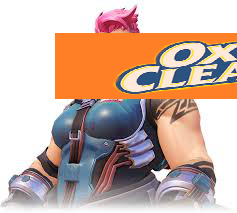
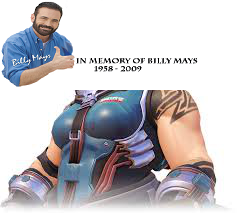
Finished Product

diff --git a/Master File Folder/Master.py b/Master File Folder/Master.py
@@ -1,1 +1,41 @@
 #Master File
+from __future__ import print_function
+import PIL
+from PIL import Image
+import os  
+directory = os.path.dirname(os.path.realpath(__file__))
+new_directory = os.path.join(directory, 'modified')
+orange = Image.open("oxicleanorangebar.png")
+memory = Image.open("logo.png") 
+directory_list = os.listdir(directory)
+
+def get_images(directory=None):
+    image_list = [] 
+    file_list = []
+    if directory == None:
+        directory = os.getcwd() 
+    for entry in directory_list:
+        absolute_filename = os.path.join(directory, entry)
+        try:
+            image = PIL.Image.open(absolute_filename)
+            file_list += [entry]
+            image_list += [image]
+        except IOError:
+            pass 
+    return image_list, file_list          
+
+def paste_logo(logo,x,y,directory=None):
+    if directory == None:
+        directory = os.getcwd()
+    new_directory = os.path.join(directory, 'modified') 
+    try:
+        os.mkdir(new_directory)
+    except OSError:
+        pass
+    image_list,file_list = get_images(directory) 
+    for n in range(len(file_list)):
+        new_image= image_list[n]
+        new_image.paste(logo,(x,y))
+        filename, filetype = os.path.splitext(file_list[n])
+        new_image_filename = os.path.join(new_directory, filename + '.png')
+        new_image.save(new_image_filename)    

diff --git a/Bradens_Folder/boop.py b/Bradens_Folder/boop.py
@@ -1,10 +1,12 @@
+
 from __future__ import print_function
 import PIL
 from PIL import Image
 import os  
 directory = os.path.dirname(os.path.realpath(__file__))
 new_directory = os.path.join(directory, 'modified')
-im = Image.open("oxicleanorangebar.png") 
+orange = Image.open("oxicleanorangebar.png")
+memory = Image.open("logo.png") 
 directory_list = os.listdir(directory)
 
 def get_images(directory=None):
@@ -22,7 +24,7 @@ def get_images(directory=None):
             pass 
     return image_list, file_list          
 
-def orange_logo(x,y,directory=None):
+def paste_logo(logo,x,y,directory=None):
     if directory == None:
         directory = os.getcwd()
     new_directory = os.path.join(directory, 'modified') 
@@ -33,7 +35,7 @@ def orange_logo(x,y,directory=None):
     image_list,file_list = get_images(directory) 
     for n in range(len(file_list)):
         new_image= image_list[n]
-        new_image.paste(im,(x,y))
+        new_image.paste(logo,(x,y))
         filename, filetype = os.path.splitext(file_list[n])
         new_image_filename = os.path.join(new_directory, filename + '.png')
         new_image.save(new_image_filename)    
